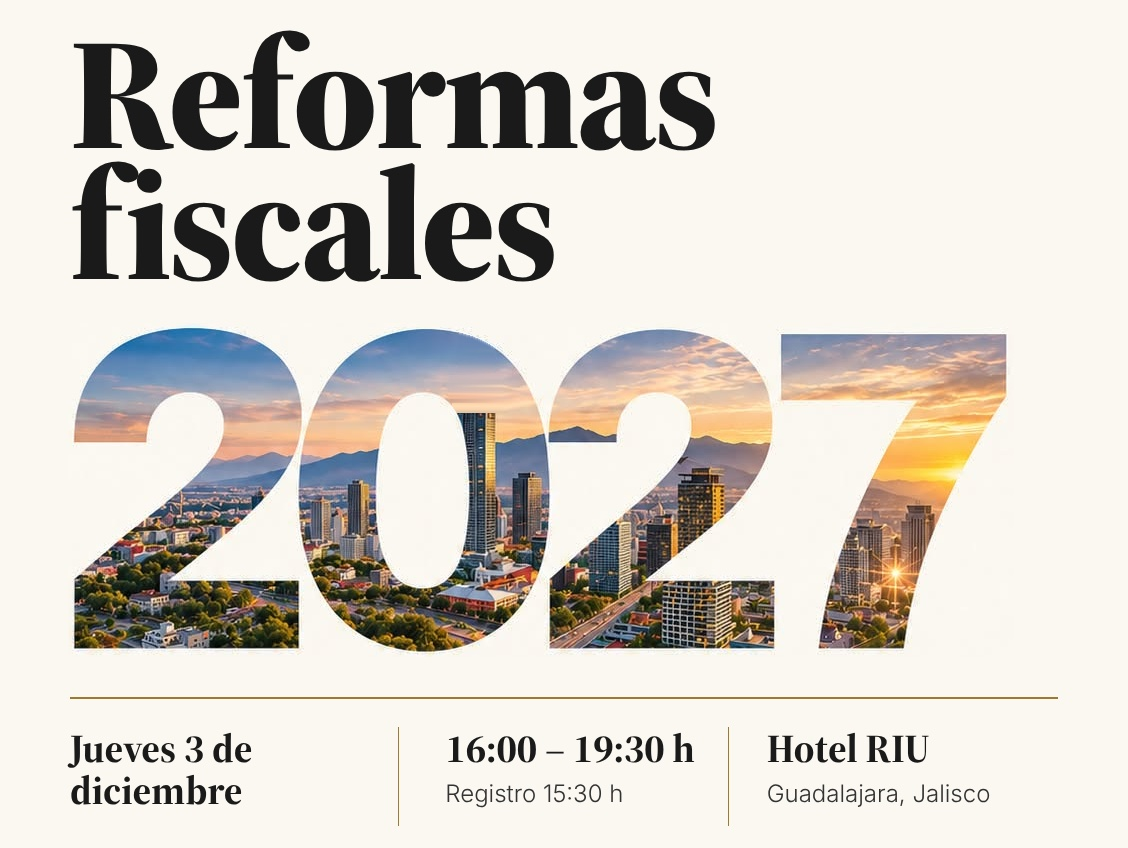
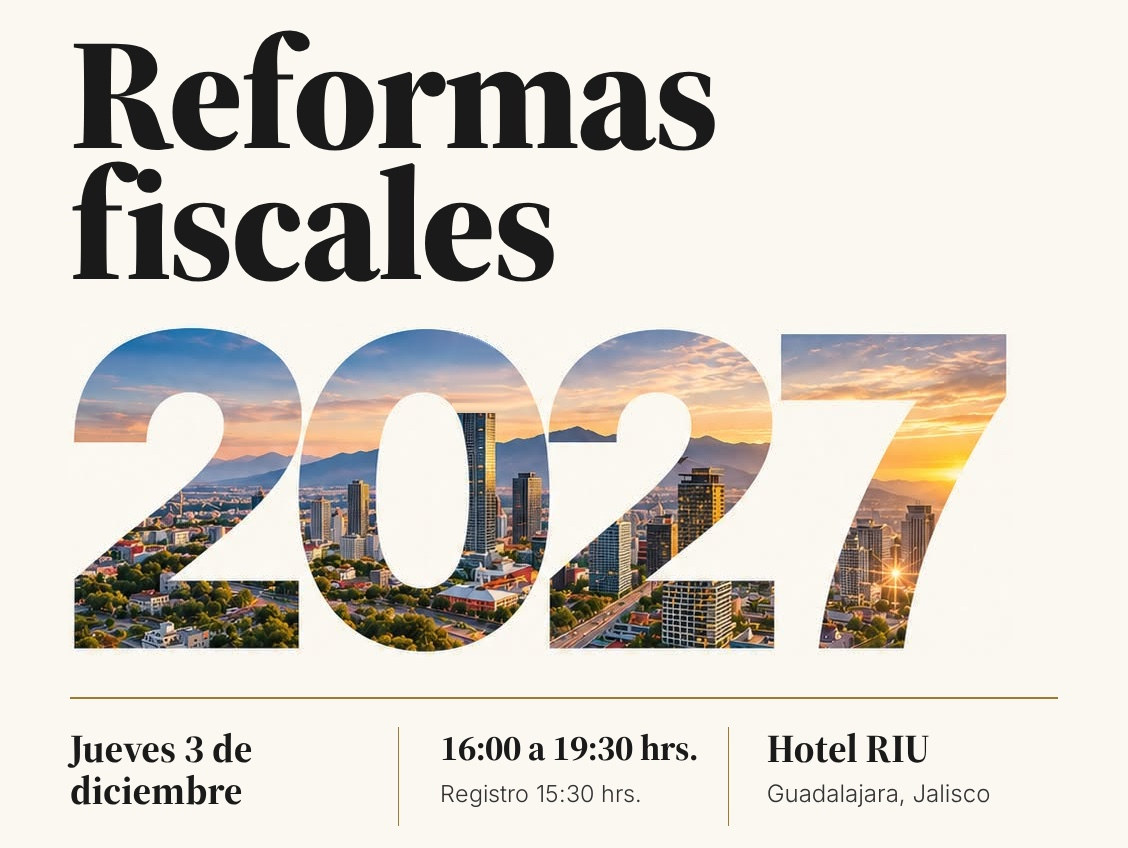
Registro sólo con el correo de la invitación, horario «de 16:00 a 19:30 hrs.» en todos lados y correo sin guiones
- submit_rsvp ya no confirma con un correo distinto al del invitado (email_mismatch, queda en la bitácora)
- En el enlace personal el correo de la invitación no se puede editar
- Horario 16:00 a 19:30 hrs. / Registro 15:30 hrs. en sitio, entrada (PDF y send-ticket), WhatsApp, correos e invitación (invitacion.png y centro.jpg)
- Correo de invitación sin cortes con guion y con más espacio antes de «Atentamente,» y la firma

Changed region(s): [[0.3723, 0.8585, 0.6206, 0.9505]]

diff --git a/src/main.tsx b/src/main.tsx
@@ -27,11 +27,11 @@ const event = {
   hostDetail: 'Consultores Fiscales',
   date: 'Jueves 3 de diciembre',
   dateShort: 'jueves 3 de diciembre',
-  time: '16:00 – 19:30 h',
-  registration: 'Registro 15:30 h',
+  time: '16:00 a 19:30 hrs.',
+  registration: 'Registro 15:30 hrs.',
   // En la entrada (PDF, confirmación y panel) el horario va en formato de 12 horas.
-  passTime: '4:00 a 7:30 pm',
-  passRegistration: 'Registro 3:30 pm',
+  passTime: 'de 16:00 a 19:30 hrs.',
+  passRegistration: 'Registro 15:30 hrs.',
   venue: 'Hotel RIU',
   city: 'Guadalajara, Jalisco',
   notice: 'Invitación personal e intransferible',
@@ -212,6 +212,8 @@ function RegistrationPage({ token = 'demo' }: { token?: string }) {
   const [form, setForm] = useState({ name: '', email: '', phone: '', company: '' })
   const [prefillStatus, setPrefillStatus] = useState<'loading' | 'ready' | 'error'>(directToken ? 'loading' : 'ready')
   const [loadAttempt, setLoadAttempt] = useState(0)
+  // En el enlace personal el correo de la invitación no se puede cambiar: la invitación es personal.
+  const [invitedEmail, setInvitedEmail] = useState('')
   useEffect(() => {
     if (!directToken) return
     let active = true
@@ -226,6 +228,7 @@ function RegistrationPage({ token = 'demo' }: { token?: string }) {
         return
       }
       setForm({ name: result.data.name || '', email: result.data.email || '', phone: result.data.phone || '', company: result.data.company || '' })
+      setInvitedEmail(result.data.email || '')
       setPrefillStatus('ready')
       if (result.data.status === 'confirmed') {
         setAlreadyRegistered(true)
@@ -305,6 +308,10 @@ function RegistrationPage({ token = 'demo' }: { token?: string }) {
       setError(directToken ? registrationMessages.linkOfAnother : registrationMessages.contactOfAnother)
       return
     }
+    if (outcome?.status === 'email_mismatch') {
+      setError(registrationMessages.notFound)
+      return
+    }
     if (outcome?.status === 'contact_in_use') {
       setError(outcome.field === 'phone' ? registrationMessages.phoneInUse : registrationMessages.emailInUse)
       return
@@ -329,7 +336,7 @@ function RegistrationPage({ token = 'demo' }: { token?: string }) {
   async function downloadPass() {
     await downloadGuestPass(form.name, resolvedToken || token)
   }
-  return <main className="register-page"><section className="register-intro"><div className="rv-intro-top"><p className="eyebrow">{event.eyebrow}</p></div><h1 className="rv-title">{event.title}</h1><img className="rv-year" src="/brand/2027-ciudad.png" alt={event.accent} width={946} height={334} /><hr className="rv-divisor" /><div className="rv-columnas"><p className="rv-dato">{event.date}</p><p><span className="rv-dato">{event.time}</span><span className="rv-dato-secundario">{event.registration}</span></p><p><span className="rv-dato">{event.venue}</span><span className="rv-dato-secundario">{event.city}</span></p></div><p className="rv-aviso">{event.notice}</p></section><section className="register-card"><div className="card-top"><p className="eyebrow">Registro</p><h2>Confirme su asistencia</h2><p>Complete sus datos para reservar su lugar.</p></div><form onSubmit={handleSubmit} aria-busy={prefillStatus === 'loading'}>{prefillStatus === 'loading' && <p role="status">Cargando sus datos…</p>}<label>Nombre completo<input autoComplete="name" disabled={prefillStatus !== 'ready' || submitting} value={form.name} onChange={update('name')} placeholder="Su nombre" /></label><label>Correo electrónico<input type="email" autoComplete="email" disabled={prefillStatus !== 'ready' || submitting} value={form.email} onChange={update('email')} placeholder="nombre@empresa.com" /></label><label>Teléfono<input type="tel" autoComplete="tel" disabled={prefillStatus !== 'ready' || submitting} value={form.phone} onChange={update('phone')} placeholder="México: 10 dígitos · Otros: +código de país" /></label><label>Empresa<input autoComplete="organization" disabled={prefillStatus !== 'ready' || submitting} value={form.company} onChange={update('company')} placeholder="Nombre de la empresa" /></label>{error && <p className="form-error" role="alert">{error}</p>}{prefillStatus === 'error' && <button className="outline-button" type="button" onClick={() => setLoadAttempt(attempt => attempt + 1)}>Volver a cargar</button>}<button className="button button-orange" type="submit" disabled={submitting || prefillStatus !== 'ready'}>{submitting ? 'Guardando…' : 'Confirmar registro'} {!submitting && <ArrowRight size={17} />}</button></form><p className="privacy-note"><ShieldCheck size={15} /> Sus datos se utilizarán únicamente para la organización del evento.</p></section></main>
+  return <main className="register-page"><section className="register-intro"><div className="rv-intro-top"><p className="eyebrow">{event.eyebrow}</p></div><h1 className="rv-title">{event.title}</h1><img className="rv-year" src="/brand/2027-ciudad.png" alt={event.accent} width={946} height={334} /><hr className="rv-divisor" /><div className="rv-columnas"><p className="rv-dato">{event.date}</p><p><span className="rv-dato">{event.time}</span><span className="rv-dato-secundario">{event.registration}</span></p><p><span className="rv-dato">{event.venue}</span><span className="rv-dato-secundario">{event.city}</span></p></div><p className="rv-aviso">{event.notice}</p></section><section className="register-card"><div className="card-top"><p className="eyebrow">Registro</p><h2>Confirme su asistencia</h2><p>Complete sus datos para reservar su lugar.</p></div><form onSubmit={handleSubmit} aria-busy={prefillStatus === 'loading'}>{prefillStatus === 'loading' && <p role="status">Cargando sus datos…</p>}<label>Nombre completo<input autoComplete="name" disabled={prefillStatus !== 'ready' || submitting} value={form.name} onChange={update('name')} placeholder="Su nombre" /></label><label>Correo electrónico<input type="email" autoComplete="email" disabled={prefillStatus !== 'ready' || submitting} readOnly={Boolean(invitedEmail)} title={invitedEmail ? 'Es el correo de su invitación personal' : undefined} value={form.email} onChange={update('email')} placeholder="nombre@empresa.com" /></label><label>Teléfono<input type="tel" autoComplete="tel" disabled={prefillStatus !== 'ready' || submitting} value={form.phone} onChange={update('phone')} placeholder="México: 10 dígitos · Otros: +código de país" /></label><label>Empresa<input autoComplete="organization" disabled={prefillStatus !== 'ready' || submitting} value={form.company} onChange={update('company')} placeholder="Nombre de la empresa" /></label>{error && <p className="form-error" role="alert">{error}</p>}{prefillStatus === 'error' && <button className="outline-button" type="button" onClick={() => setLoadAttempt(attempt => attempt + 1)}>Volver a cargar</button>}<button className="button button-orange" type="submit" disabled={submitting || prefillStatus !== 'ready'}>{submitting ? 'Guardando…' : 'Confirmar registro'} {!submitting && <ArrowRight size={17} />}</button></form><p className="privacy-note"><ShieldCheck size={15} /> Sus datos se utilizarán únicamente para la organización del evento.</p></section></main>
 }
 
 function TokenRegistrationPage() {

diff --git a/emails/invitacion-make.html b/emails/invitacion-make.html
@@ -1,19 +1,19 @@
-<!-- Make: escenario "Enviar correo" (webhook 1). Pegar como contenido HTML del módulo Email. Sin adjuntos: la invitación va en el cuerpo en 3 piezas (/brand/invitacion-correo/): arriba.gif (40 con brillo), centro.jpg y abajo.gif (botón «Regístrese aquí» y TaxPro animado). Toda la invitación abre el enlace personal {{1.invitation_url}}. Las imágenes llevan height (mitad exacta de 276/848/264 px) y las celdas fondo crema #FBF8F1: sin eso Outlook de escritorio deja una línea blanca entre piezas. -->
+<!-- Make: escenario "Enviar correo" (webhook 1). Pegar como contenido HTML del módulo Email. Sin adjuntos: la invitación va en el cuerpo en 3 piezas (/brand/invitacion-correo/): arriba.gif (40 con brillo), centro.jpg y abajo.gif (botón «Regístrese aquí» y TaxPro animado). Toda la invitación abre el enlace personal {{1.invitation_url}}. Las imágenes llevan height (mitad exacta de 276/848/264 px) y las celdas fondo crema #FBF8F1: sin eso Outlook de escritorio deja una línea blanca entre piezas. Los párrafos llevan margen explícito y hyphens:none/mso-hyphenate:none para que ningún cliente corte palabras con guion; «Atentamente,» y la firma van separados 36 px. -->
 <!--[if mso]><table role="presentation" width="640" align="left" cellpadding="0" cellspacing="0" border="0"><tr><td><![endif]-->
-<div style="max-width:640px;margin:0;font-family:Arial,sans-serif;color:#1A1A1A;background:#FFFFFF;padding:0 0 24px">
-  <p>Estimados clientes y amigos:</p>
-  <p>Tenemos el agrado de invitarlos a nuestra conferencia de <strong>Reformas Fiscales 2027</strong>.</p>
-  <p><strong>Fecha:</strong> jueves 3 de diciembre de 2026<br><strong>Horario:</strong> de 4:00 a 7:30 p.m. (registro a partir de las 3:30 p.m.)<br><strong>Lugar:</strong> Hotel RIU Guadalajara</p>
-  <p>Para confirmar su asistencia, les solicitamos dar clic en el recuadro <strong>“Regístrese aquí”</strong> que aparece en la invitación de este correo y completar su registro con la misma dirección de correo electrónico en la que lo recibieron, ya que la invitación es personal e intransferible.</p>
-  <p>Una vez completado su registro, recibirán en esa misma dirección el código QR que les permitirá acceder a la conferencia.</p>
+<div style="max-width:640px;margin:0;font-family:Arial,sans-serif;color:#1A1A1A;background:#FFFFFF;padding:0 0 24px;hyphens:none;-webkit-hyphens:none;-ms-hyphens:none;mso-hyphenate:none">
+  <p style="margin:0 0 16px;hyphens:none;-webkit-hyphens:none;-ms-hyphens:none;mso-hyphenate:none">Estimados clientes y amigos:</p>
+  <p style="margin:0 0 16px;hyphens:none;-webkit-hyphens:none;-ms-hyphens:none;mso-hyphenate:none">Tenemos el agrado de invitarlos a nuestra conferencia de <strong>Reformas Fiscales 2027</strong>.</p>
+  <p style="margin:0 0 16px;hyphens:none;-webkit-hyphens:none;-ms-hyphens:none;mso-hyphenate:none"><strong>Fecha:</strong> jueves 3 de diciembre de 2026<br><strong>Horario:</strong> de 16:00 a 19:30 hrs. (registro a partir de las 15:30 hrs.)<br><strong>Lugar:</strong> Hotel RIU Guadalajara</p>
+  <p style="margin:0 0 16px;hyphens:none;-webkit-hyphens:none;-ms-hyphens:none;mso-hyphenate:none">Para confirmar su asistencia, les solicitamos dar clic en el recuadro <strong>“Regístrese aquí”</strong> que aparece en la invitación de este correo y completar su registro con la misma dirección de correo electrónico en la que lo recibieron, ya que la invitación es personal e intransferible.</p>
+  <p style="margin:0 0 16px;hyphens:none;-webkit-hyphens:none;-ms-hyphens:none;mso-hyphenate:none">Una vez completado su registro, recibirán en esa misma dirección el código QR que les permitirá acceder a la conferencia.</p>
   <table role="presentation" width="564" cellpadding="0" cellspacing="0" border="0" bgcolor="#FBF8F1" style="width:100%;max-width:564px;border-collapse:collapse;mso-table-lspace:0pt;mso-table-rspace:0pt;background:#FBF8F1;margin:24px 0">
     <tr><td bgcolor="#FBF8F1" style="padding:0;font-size:0;line-height:0;mso-line-height-rule:exactly;background:#FBF8F1"><a href="{{1.invitation_url}}" style="display:block;text-decoration:none;border:0"><img src="https://rv-evento.vercel.app/brand/invitacion-correo/arriba.gif" width="564" height="138" alt="Ruvalcaba Villalobos, 40 aniversario" style="display:block;width:100%;max-width:564px;height:auto;border:0"></a></td></tr>
-    <tr><td bgcolor="#FBF8F1" style="padding:0;font-size:0;line-height:0;mso-line-height-rule:exactly;background:#FBF8F1"><a href="{{1.invitation_url}}" style="display:block;text-decoration:none;border:0"><img src="https://rv-evento.vercel.app/brand/invitacion-correo/centro.jpg" width="564" height="424" alt="Conferencia Reformas fiscales 2027. Jueves 3 de diciembre, 16:00 a 19:30 h, registro 15:30 h, Hotel RIU, Guadalajara, Jalisco." style="display:block;width:100%;max-width:564px;height:auto;border:0"></a></td></tr>
+    <tr><td bgcolor="#FBF8F1" style="padding:0;font-size:0;line-height:0;mso-line-height-rule:exactly;background:#FBF8F1"><a href="{{1.invitation_url}}" style="display:block;text-decoration:none;border:0"><img src="https://rv-evento.vercel.app/brand/invitacion-correo/centro.jpg" width="564" height="424" alt="Conferencia Reformas fiscales 2027. Jueves 3 de diciembre, 16:00 a 19:30 hrs., registro 15:30 hrs., Hotel RIU, Guadalajara, Jalisco." style="display:block;width:100%;max-width:564px;height:auto;border:0"></a></td></tr>
     <tr><td bgcolor="#FBF8F1" style="padding:0;font-size:0;line-height:0;mso-line-height-rule:exactly;background:#FBF8F1"><a href="{{1.invitation_url}}" style="display:block;text-decoration:none;border:0"><img src="https://rv-evento.vercel.app/brand/invitacion-correo/abajo.gif" width="564" height="132" alt="Regístrese aquí" style="display:block;width:100%;max-width:564px;height:auto;border:0"></a></td></tr>
   </table>
-  <p>Será un placer contar con su asistencia y saludarlos personalmente durante el evento.</p>
-  <p>Quedamos a sus órdenes para cualquier duda o aclaración.</p>
-  <p>Atentamente,</p>
-  <p>Ruvalcaba Villalobos y Compañía, S.C.</p>
+  <p style="margin:0 0 16px;hyphens:none;-webkit-hyphens:none;-ms-hyphens:none;mso-hyphenate:none">Será un placer contar con su asistencia y saludarlos personalmente durante el evento.</p>
+  <p style="margin:0;hyphens:none;-webkit-hyphens:none;-ms-hyphens:none;mso-hyphenate:none">Quedamos a sus órdenes para cualquier duda o aclaración.</p>
+  <p style="margin:36px 0 0;hyphens:none;-webkit-hyphens:none;-ms-hyphens:none;mso-hyphenate:none">Atentamente,</p>
+  <p style="margin:36px 0 0;hyphens:none;-webkit-hyphens:none;-ms-hyphens:none;mso-hyphenate:none">Ruvalcaba Villalobos y Compañía, S.C.</p>
 </div>
 <!--[if mso]></td></tr></table><![endif]-->

diff --git a/src/lib/invitations.ts b/src/lib/invitations.ts
@@ -30,7 +30,7 @@ export function whatsappInvitationUrl(phone: string, name: string, token: string
   const invitation = new URL(`/registro/${encodeURIComponent(token)}`, site.origin).href
   const greeting = name.trim() && name.trim() !== 'Invitado pendiente' ? `Apreciable ${name.trim()}:` : 'Reciba un cordial saludo.'
   const message = reminder
-    ? `${greeting}\n\nLe recordamos con gusto la invitación de Ruvalcaba Villalobos, Consultores Fiscales, a la conferencia *Reformas fiscales 2027*, el jueves 3 de diciembre de 16:00 a 19:30 h en el Hotel RIU, Guadalajara, Jalisco. El registro inicia a las 15:30 h.\n\nAún no hemos recibido su respuesta. Le agradeceremos confirmar su asistencia desde su enlace personal, donde también encontrará los detalles del evento:\n${invitation}\n\nSi ya respondió recientemente, por favor omita este recordatorio. La invitación es personal e intransferible.\n\nSerá un gusto contar con su presencia.\n\n*Ruvalcaba Villalobos* · 40 aniversario`
-    : `${greeting}\n\nRuvalcaba Villalobos, Consultores Fiscales, tiene el gusto de invitarle a la conferencia para clientes y amigos:\n\n*Reformas fiscales 2027*\n\nCon ella celebramos también nuestro 40 aniversario.\n\n*Fecha:* jueves 3 de diciembre.\n*Horario:* 16:00 a 19:30 h. Registro a partir de las 15:30 h.\n*Sede:* Hotel RIU, Guadalajara, Jalisco.\n\nRegístrese aquí, a través de su enlace personal:\n${invitation}\n\nEsta invitación es personal e intransferible.\n\nSerá un gusto contar con su presencia.\n\nAtentamente,\n*Ruvalcaba Villalobos*`
+    ? `${greeting}\n\nLe recordamos con gusto la invitación de Ruvalcaba Villalobos, Consultores Fiscales, a la conferencia *Reformas fiscales 2027*, el jueves 3 de diciembre de 16:00 a 19:30 hrs. en el Hotel RIU, Guadalajara, Jalisco. El registro inicia a las 15:30 hrs.\n\nAún no hemos recibido su respuesta. Le agradeceremos confirmar su asistencia desde su enlace personal, donde también encontrará los detalles del evento:\n${invitation}\n\nSi ya respondió recientemente, por favor omita este recordatorio. La invitación es personal e intransferible.\n\nSerá un gusto contar con su presencia.\n\n*Ruvalcaba Villalobos* · 40 aniversario`
+    : `${greeting}\n\nRuvalcaba Villalobos, Consultores Fiscales, tiene el gusto de invitarle a la conferencia para clientes y amigos:\n\n*Reformas fiscales 2027*\n\nCon ella celebramos también nuestro 40 aniversario.\n\n*Fecha:* jueves 3 de diciembre.\n*Horario:* de 16:00 a 19:30 hrs. Registro a partir de las 15:30 hrs.\n*Sede:* Hotel RIU, Guadalajara, Jalisco.\n\nRegístrese aquí, a través de su enlace personal:\n${invitation}\n\nEsta invitación es personal e intransferible.\n\nSerá un gusto contar con su presencia.\n\nAtentamente,\n*Ruvalcaba Villalobos*`
   return `https://wa.me/${recipient}?text=${encodeURIComponent(message)}`
 }

diff --git a/emails/recordatorio-make.html b/emails/recordatorio-make.html
@@ -9,11 +9,11 @@
   </table>
   <p>Estimados clientes y amigos:</p>
   <p>Les recordamos nuestra invitación a la conferencia de <strong>Reformas Fiscales 2027</strong>.</p>
-  <p><strong>Fecha:</strong> jueves 3 de diciembre de 2026.<br><strong>Horario:</strong> de 4:00 a 7:30 p.m. (registro a partir de las 3:30 p.m.)<br><strong>Lugar:</strong> Hotel RIU Guadalajara</p>
+  <p><strong>Fecha:</strong> jueves 3 de diciembre de 2026.<br><strong>Horario:</strong> de 16:00 a 19:30 hrs. (registro a partir de las 15:30 hrs.)<br><strong>Lugar:</strong> Hotel RIU Guadalajara</p>
   <p>Aún no hemos recibido su registro. Para su registro de asistencia, les solicitamos dar clic en el recuadro “Regístrese aquí” de la invitación, utilizando la misma dirección de correo electrónico en la que recibieron este mensaje, ya que la invitación es personal e intransferible.</p>
   <p>Una vez que realice su registro, le enviaremos al mismo correo el código QR para ingresar a la conferencia.</p>
   <p>Si ya realizó su registro recientemente, por favor omita este recordatorio.</p>
-  <a href="{{1.invitation_url}}" style="display:block;text-decoration:none;border:0"><img src="https://rv-evento.vercel.app/brand/invitacion.png" width="640" alt="Invitación a la conferencia Reformas fiscales 2027 de Ruvalcaba Villalobos, 40 aniversario. Jueves 3 de diciembre, 16:00 a 19:30 h, registro 15:30 h, Hotel RIU, Guadalajara, Jalisco. Regístrese aquí." style="display:block;width:100%;max-width:640px;height:auto;border:0"></a>
+  <a href="{{1.invitation_url}}" style="display:block;text-decoration:none;border:0"><img src="https://rv-evento.vercel.app/brand/invitacion.png" width="640" alt="Invitación a la conferencia Reformas fiscales 2027 de Ruvalcaba Villalobos, 40 aniversario. Jueves 3 de diciembre, 16:00 a 19:30 hrs., registro 15:30 hrs., Hotel RIU, Guadalajara, Jalisco. Regístrese aquí." style="display:block;width:100%;max-width:640px;height:auto;border:0"></a>
   <p style="text-align:left;font-size:13px;color:#555555;margin:16px 0 24px">Dé clic en la invitación para registrarse. Si no la ve, use este enlace: <a href="{{1.invitation_url}}" style="color:#1A1A1A;font-weight:bold">Regístrese aquí</a></p>
   <p>Será un placer contar con su asistencia y saludarlos personalmente en el evento.</p>
   <p>Quedamos a sus órdenes para cualquier duda o aclaración.</p>

diff --git a/emails/entrada-make.html b/emails/entrada-make.html
@@ -22,7 +22,7 @@
         <p style="margin:14px 0 0;border-top:2px solid #9C7B30;font-size:0;line-height:0">&nbsp;</p>
         <p style="margin:16px 0 4px;font-size:11px;font-weight:bold;letter-spacing:2px;color:#9C7B30">ENTRADA PERSONAL</p>
         <p style="margin:0 0 12px;font-family:Georgia,'Times New Roman',serif;font-size:22px;font-weight:bold;color:#1A1A1A">{{1.guest_name}}</p>
-        <p style="margin:0;font-size:15px;line-height:1.6;color:#333333">Jueves 3 de diciembre<br>Horario 4:00 a 7:30 pm<br>Registro 3:30 pm<br>Hotel RIU, Guadalajara, Jalisco</p>
+        <p style="margin:0;font-size:15px;line-height:1.6;color:#333333">Jueves 3 de diciembre<br>Horario de 16:00 a 19:30 hrs.<br>Registro 15:30 hrs.<br>Hotel RIU, Guadalajara, Jalisco</p>
       </td>
     </tr>
     <tr>

diff --git a/supabase/functions/send-ticket/index.ts b/supabase/functions/send-ticket/index.ts
@@ -20,8 +20,8 @@ const event = {
   title: 'Reformas fiscales',
   accent: '2027',
   date: 'Jueves 3 de diciembre',
-  time: '4:00 a 7:30 pm',
-  registration: 'Registro 3:30 pm',
+  time: 'de 16:00 a 19:30 hrs.',
+  registration: 'Registro 15:30 hrs.',
   venue: 'Hotel RIU',
   city: 'Guadalajara, Jalisco',
   notice: 'Invitación personal e intransferible',

diff --git a/src/brand.css b/src/brand.css
@@ -208,3 +208,4 @@ input::placeholder { color: #8C857A; }
   .tp-trazo { opacity: 0; }
   .button { transition: none; }
 }
+.register-card input[readonly] { background: #F6F0E2; color: var(--rv-gris-texto); cursor: default; }

diff --git a/docs/make-email.md b/docs/make-email.md
@@ -53,7 +53,7 @@ Si la cuenta remitente usa Gmail o Google Workspace, agrega **Gmail → Send an 
 > Tenemos el agrado de invitarlos a nuestra conferencia de **Reformas Fiscales 2027**.
 >
 > **Fecha:** jueves 3 de diciembre de 2026
-> **Horario:** de 4:00 a 7:30 p.m. (registro a partir de las 3:30 p.m.)
+> **Horario:** de 16:00 a 19:30 hrs. (registro a partir de las 15:30 hrs.)
 > **Lugar:** Hotel RIU Guadalajara
 >
 > Para confirmar su asistencia, les solicitamos dar clic en el recuadro **“Regístrese aquí”** que aparece en la invitación de este correo y completar su registro con la misma dirección de correo electrónico en la que lo recibieron, ya que la invitación es personal e intransferible.
@@ -68,7 +68,7 @@ Si la cuenta remitente usa Gmail o Google Workspace, agrega **Gmail → Send an 
 >
 > Ruvalcaba Villalobos y Compañía, S.C.
 
-Para un correo con diseño, usa como contenido HTML `emails/invitacion-make.html`; las imágenes de la invitación se sirven desde `https://rv-evento.vercel.app/brand/`, así que deben estar publicadas en Vercel antes de enviar. El correo mide como máximo 640 px (también en Outlook de escritorio, con una tabla condicional `[if mso]`), para que el texto no se extienda de más en pantallas grandes. El correo ya no lleva encabezado con logo y 40 aniversario (desde el 2026-11-17): empieza directo con el saludo.
+Para un correo con diseño, usa como contenido HTML `emails/invitacion-make.html`; las imágenes de la invitación se sirven desde `https://rv-evento.vercel.app/brand/`, así que deben estar publicadas en Vercel antes de enviar. El correo mide como máximo 640 px (también en Outlook de escritorio, con una tabla condicional `[if mso]`), para que el texto no se extienda de más en pantallas grandes. El correo ya no lleva encabezado con logo y 40 aniversario (desde el 2026-11-17): empieza directo con el saludo. Cada párrafo lleva margen explícito y `hyphens:none` / `mso-hyphenate:none` para que ningún cliente de correo corte palabras con guion («direc-ción»), y «Atentamente,» y la firma van separados 36 px del texto. El horario se escribe «de 16:00 a 19:30 hrs.» en todos lados (sitio, invitación, entrada y correos).
 
 **Invitación animada en el cuerpo, sin adjuntos**: una imagen adjunta no puede llevar links, así que la invitación va dentro del correo en tres piezas de `/brand/invitacion-correo/`: `arriba.gif` (logo y 40 con su brillo, 3.5 s), `centro.jpg` (título, 2027 y datos) y `abajo.gif` (leyendas, botón «Regístrese aquí» y logo de TaxPro animado, 7 s). Las tres van en una tabla de 564 px y cada una está ligada a `{{1.invitation_url}}`, así que cualquier clic en la invitación (y en particular en el botón) abre el registro personal del invitado. El escenario ya no tiene módulos HTTP ni adjuntos. El primer cuadro de cada GIF es idéntico a la invitación, porque Outlook de escritorio sólo muestra ese cuadro. Si cambia `invitacion.png`, hay que regenerar las piezas (cortes en y=276 y y=1124). Cada `<img>` lleva `height` (138, 424 y 132, la mitad exacta de cada pieza) y las celdas tienen fondo crema `#FBF8F1` con `mso-line-height-rule:exactly`: sin eso, Outlook de escritorio en Windows deja una línea blanca entre las piezas.
 

diff --git a/README.md b/README.md
@@ -1,6 +1,6 @@
 # Registro · Reformas fiscales 2027
 
-SPA para invitaciones, confirmaciones y registro de entrada de la conferencia **Reformas fiscales 2027** de Ruvalcaba Villalobos, Consultores Fiscales (40 aniversario). Jueves 3 de diciembre, 16:00 – 19:30 h, Hotel RIU, Guadalajara.
+SPA para invitaciones, confirmaciones y registro de entrada de la conferencia **Reformas fiscales 2027** de Ruvalcaba Villalobos, Consultores Fiscales (40 aniversario). Jueves 3 de diciembre, de 16:00 a 19:30 hrs., Hotel RIU, Guadalajara.
 
 ## Marca
 
